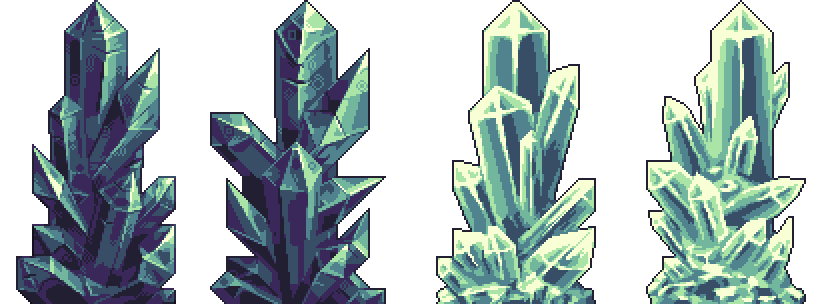
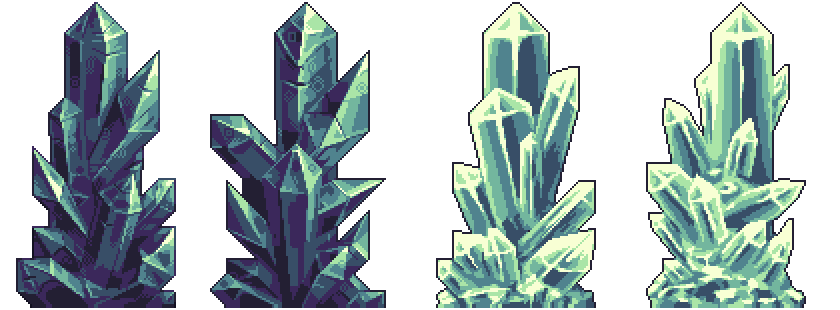
Crystal drawing fixed
drawing fixed, some small changes with dummy tiles, and some config changes

diff --git a/Core/TileBases.cs b/Core/TileBases.cs
@@ -1,6 +1,8 @@
 using Microsoft.Xna.Framework;
 using Microsoft.Xna.Framework.Graphics;
+using StarlightRiver.Content.Tiles.Forest;
 using StarlightRiver.Helpers;
+using System;
 using System.Linq;
 using Terraria;
 using Terraria.DataStructures;
@@ -147,7 +149,7 @@ namespace StarlightRiver.Core
         public virtual void FountainActive(int i, int j, bool closer) { }
     }
 
-    public abstract class WalkableCrystal : ModTile
+    internal abstract class WalkableCrystal : DummyTile
     {
         protected readonly string ItemName;
         protected int ItemType;
@@ -160,8 +162,14 @@ namespace StarlightRiver.Core
         public readonly int MaxWidth;
         public readonly int MaxHeight;
         protected readonly string TexturePath;
+        public readonly string DummyName;
 
-        protected WalkableCrystal(int maxWidth, int maxHeight, string path = null, string structurePath = null, int variantCount = 1, string drop = null, int dust = 0, Color? mapColor = null, int sound = 1)
+
+        public override int DummyType => mod.ProjectileType(DummyName);
+
+        public override bool SpawnConditions(int i, int j) => Main.tile[i, j].frameX > 0;
+
+        protected WalkableCrystal(int maxWidth, int maxHeight, string path = null, string structurePath = null, int variantCount = 1, string drop = null, int dust = 0, Color? mapColor = null, int sound = 1, string dummyType = null)
         {
             ItemName = drop;
             TexturePath = path;
@@ -172,6 +180,7 @@ namespace StarlightRiver.Core
             MaxHeight = maxHeight;
             MaxWidth = maxWidth;
             Sound = sound;
+            DummyName = dummyType ?? "WalkableCrystalDummy";
         }
 
         public override bool Autoload(ref string name, ref string texture)
@@ -216,6 +225,14 @@ namespace StarlightRiver.Core
             return 0;
         }
 
+        public override void PostSpawnDummy(Projectile dummy)
+        {
+            WalkableCrystalDummy crystalDummy = (WalkableCrystalDummy)dummy.modProjectile;//a interface could be used instead, but that seemed overkill atm
+            crystalDummy.variantCount = VariantCount;
+            crystalDummy.drawOffset = DrawOffset;
+            crystalDummy.drawColor = DrawColor;
+        }
+
         public override bool Drop(int i, int j)
         {
             if(Main.tile[i, j].frameX > 0)
@@ -225,33 +242,42 @@ namespace StarlightRiver.Core
 
         public override bool PreDraw(int i, int j, SpriteBatch spriteBatch) => false;
 
-        public virtual Vector2 DrawOffset => new Vector2(-7, 18);
-        public virtual Color DrawColor => Color.Gray;
-        public override void PostDraw(int i, int j, SpriteBatch spriteBatch)
-        {
-            Tile t = Main.tile[i, j];
-            //DrawHelper.TileDebugDraw(i, j, spriteBatch);
-            if (t.frameX > 0)
-            {
-                if (PrePostDraw(i, j, spriteBatch))
-                {
-                    Texture2D tex = Main.tileTexture[Type];
-                    Rectangle frame = tex.Frame(VariantCount, 1, t.frameX - 1);
-                    //spriteBatch.Draw(tex, ((new Vector2(i, j) + Helper.TileAdj) * 16 - Main.screenPosition) + DrawOffset, frame, DrawColor, 0, new Vector2(frame.Width * 0.5f, frame.Height), 1, 0, 0);
-                    //LightingBufferRenderer.DrawWithLighting((((new Vector2(i, j) + Helper.TileAdj) * 16 - Main.screenPosition) + DrawOffset) - new Vector2(frame.Width * 0.5f, frame.Height), tex, frame, Color.Blue);
-                    Vector2 pos = (((new Vector2(i, j)) * 16 - Main.screenPosition) + DrawOffset) + new Vector2(frame.Width * 0.5f, frame.Height * 0.5f);
-                    //LightingBufferRenderer.DrawWithLightingTile(pos, Main.blackTileTexture, frame, Color.White);
-                    LightingBufferRenderer.DrawWithLighting(pos, tex, frame, Color.White);
-                }
-                AfterPostDraw(i, j, spriteBatch);
-            }
-        }
-        public virtual bool PrePostDraw(int i, int j, SpriteBatch spriteBatch) => true;
-        public virtual void AfterPostDraw(int i, int j, SpriteBatch spriteBatch) { }
+        public virtual Vector2 DrawOffset => new Vector2(8, 18);
+        public virtual Color DrawColor => Color.White;
 
         public override void KillTile(int i, int j, ref bool fail, ref bool effectOnly, ref bool noItem) => fail = true;
         public override bool CanExplode(int i, int j) => false;
         public override bool Slope(int i, int j) => false;
+        public override bool TileFrame(int i, int j, ref bool resetFrame, ref bool noBreak) => false;
+    }
+
+    class WalkableCrystalDummy : Dummy //extend from this and override PostDraw to change stuff
+    {
+        public int variantCount;
+        public Vector2 drawOffset;
+        public Color drawColor;
+
+        public WalkableCrystalDummy() : base(-1, 16, 16) { }
+
+        public override bool ValidTile(Tile tile) => ModContent.GetModTile(tile.type) is WalkableCrystal;
+
+        public override void PostDraw(SpriteBatch spriteBatch, Color lightColor)
+        {
+            //var tex = ModContent.GetTexture(AssetDirectory.ForestTile + "MonkSpearOver");
+            Tile t = Parent;
+            //DrawHelper.TileDebugDraw(i, j, spriteBatch);
+            if (t.frameX > 0)
+            {
+                Texture2D tex = Main.tileTexture[t.type];
+                Rectangle frame = tex.Frame(variantCount, 1, t.frameX - 1);
+                //spriteBatch.Draw(tex, ((new Vector2(i, j) + Helper.TileAdj) * 16 - Main.screenPosition) + DrawOffset, frame, DrawColor, 0, new Vector2(frame.Width * 0.5f, frame.Height), 1, 0, 0);
+                //LightingBufferRenderer.DrawWithLighting((((new Vector2(i, j) + Helper.TileAdj) * 16 - Main.screenPosition) + DrawOffset) - new Vector2(frame.Width * 0.5f, frame.Height), tex, frame, Color.Blue);
+                Vector2 pos = ((projectile.position - Main.screenPosition) + drawOffset) - new Vector2(frame.Width * 0.5f, frame.Height);
+                LightingBufferRenderer.DrawWithLighting(pos, tex, frame, drawColor);
+
+            }
+
+        }
     }
 
     public abstract class ModBanner : ModTile
@@ -325,7 +351,6 @@ namespace StarlightRiver.Core
         public override void KillMultiTile(int i, int j, int frameX, int frameY) => 
             Item.NewItem(i * 16, j * 16, 16 * Width, 16 * Height, ItemType);
     }
-
 
     public abstract class ModVine : ModTile
     {

diff --git a/Content/Tiles/Vitric/VitricCrystals.cs b/Content/Tiles/Vitric/VitricCrystals.cs
@@ -12,7 +12,7 @@ namespace StarlightRiver.Content.Tiles.Vitric
 	public abstract class WalkableCrystalItem : QuickTileItem
     {
         private bool held = false;
-        public WalkableCrystalItem(string name, string placetype, string texturepath) : base(name, "Use item slot to select type", placetype, ItemRarityID.Blue, texturepath) { }
+        public WalkableCrystalItem(string name, string placetype, string texturepath) : base(name, "The slot this item is in changes the type placed", placetype, ItemRarityID.Blue, texturepath) { }
 
         //public override bool AltFunctionUse(Player player) => true;
         public override void AutoLightSelect(ref bool dryTorch, ref bool wetTorch, ref bool glowstick)
@@ -67,7 +67,7 @@ namespace StarlightRiver.Content.Tiles.Vitric
         public VitricGiantCrystalItem() : base("Giant Giant crystal", "VitricGiantCrystal", AssetDirectory.VitricTile) { }
     }
 
-    public abstract class VitricCrystal : WalkableCrystal
+    internal abstract class VitricCrystal : WalkableCrystal
     {
         protected VitricCrystal(int maxWidth, int maxHeight, int variantCount = 1, string drop = null) :
             base(maxWidth, maxHeight, AssetDirectory.VitricTile, AssetDirectory.VitricCrystalStructs, variantCount, drop, DustType<Dusts.Air>(), new Color(115, 182, 158), SoundID.CoinPickup)
@@ -76,7 +76,7 @@ namespace StarlightRiver.Content.Tiles.Vitric
         public override void SafeSetDefaults() =>
             Main.tileMerge[TileType<VitricSpike>()][Type] = true;
 
-        public override void AfterPostDraw(int i, int j, SpriteBatch spriteBatch)
+        public override void PostDraw(int i, int j, SpriteBatch spriteBatch)
         {
             Texture2D lavaFadeTex = GetTexture(AssetDirectory.VitricTile + "VitricLavaFade");
             int halfWidth = (MaxWidth / 2);//to account for odd numbers
@@ -102,22 +102,22 @@ namespace StarlightRiver.Content.Tiles.Vitric
         }
     }
 
-    public class VitricGiantCrystal : VitricCrystal
+    internal class VitricGiantCrystal : VitricCrystal
     {
         public VitricGiantCrystal() : base(10, 19, 4) { }//a
     }
 
-    public class VitricLargeCrystal : VitricCrystal
+    internal class VitricLargeCrystal : VitricCrystal
     {
         public VitricLargeCrystal() : base(13, 8, 2) {}
     }
 
-    public class VitricMediumCrystal : VitricCrystal
+    internal class VitricMediumCrystal : VitricCrystal
     {
         public VitricMediumCrystal() : base(7, 6, 4) { }
     }
 
-    public class VitricSmallCrystal : VitricCrystal
+    internal class VitricSmallCrystal : VitricCrystal
     {
         public VitricSmallCrystal() : base(3, 3, 2) { }
     }

diff --git a/Content/Configs/Config.cs b/Content/Configs/Config.cs
@@ -45,19 +45,24 @@ namespace StarlightRiver.Configs
         public int LightingPollRate = 5;
 
         [Label("Scrolling Lighting Buffer Building")]
-        [Tooltip("Causes the lighting buffer to be built over its poll rate instead of all at once. May help normalize lag spikes but cause strange lighting artifacts.")]
+        [Tooltip("Causes the lighting buffer to be built over its poll rate instead of all at once. \nMay help normalize lag spikes but cause strange lighting artifacts.")]
+        [DefaultValue(false)]
         public bool ScrollingLightingPoll = false;
 
         [Label("Extra Particles")]
-        [Tooltip("Enables/Disables special particles. Disable this if you have performance issues.")]
+        [Tooltip("Enables/Disables special particles. \nDisable this if you have performance issues.")]
+        [DefaultValue(true)]
         public bool ParticlesActive = true;
 
         [Label("High quality lit textures")]
-        [Tooltip("Enables/Disables fancy lighting on large textures. Disable this if you have performance issues.")]
+        [Tooltip("Enables/Disables fancy lighting on large textures. \nDisable this if you have performance issues.")]
+        [DefaultValue(true)]
         public bool HighQualityLighting = true;
 
         [Label("Custom Inventory Sounds")]
-        [Tooltip("If custom inventory sounds should play for all items or a select few, or none at all.")]
+        [DrawTicks]
+        [Tooltip("If custom inventory sounds should play for all items, select few, or none.")]
+        [DefaultValue(typeof(CustomSounds), "All")]
         public CustomSounds InvSounds = CustomSounds.All;
     }
 }

diff --git a/Core/DummyTile.cs b/Core/DummyTile.cs
@@ -10,6 +10,7 @@ namespace StarlightRiver.Core
         public virtual int DummyType { get; }
 
         public Projectile Dummy { get; set; }
+        public virtual void PostSpawnDummy(Projectile dummy) { }
 
         public virtual void SafeNearbyEffects(int i, int j, bool closer) { }
 
@@ -23,13 +24,15 @@ namespace StarlightRiver.Core
         {
             if (!Main.tileFrameImportant[Type] || SpawnConditions(i, j))
             {
-                if (!Main.projectile.Any(n => n.active && n.type == DummyType && n.position == new Vector2(i, j) * 16))
+                int type = DummyType;//cache type here so you dont grab the it from a dict every single iteration
+                if (!Main.projectile.Any(n => n.active && n.type == type && n.position == new Vector2(i, j) * 16))
                 {
                     Projectile p = new Projectile();
-                    p.SetDefaults(DummyType);
+                    p.SetDefaults(type);
 
-                    int n = Projectile.NewProjectile(new Vector2(i, j) * 16 + p.Size / 2, Vector2.Zero, DummyType, 1, 0);
+                    int n = Projectile.NewProjectile(new Vector2(i, j) * 16 + p.Size / 2, Vector2.Zero, type, 1, 0);
                     Dummy = Main.projectile[n];
+                    PostSpawnDummy(Dummy);
                     p = null;
                 }
             }
